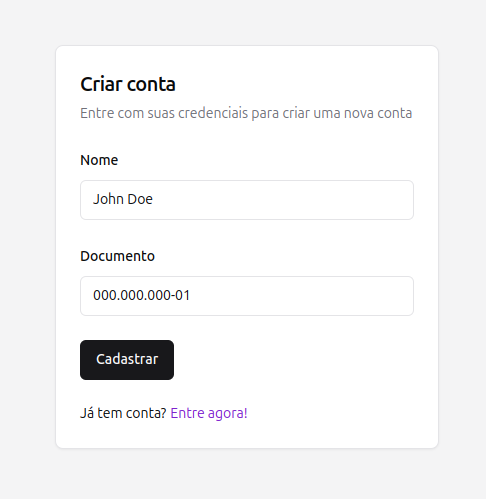
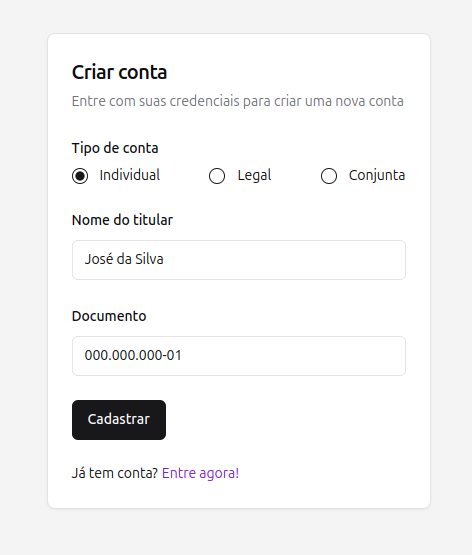
feat: improved create account

diff --git a/client/src/components/signup-form.tsx b/client/src/components/signup-form.tsx
@@ -21,19 +21,51 @@ import {
   FormMessage,
 } from "./ui/form"
 import { Input } from "./ui/input"
+import { RadioGroup, RadioGroupItem } from "./ui/radio-group"
 import { toast } from "./ui/use-toast"
 
-const formSchema = z.object({
-  name: z
-    .string()
-    .min(8, {
-      message: "O nome deve ter no mínimo 6 caracteres",
-    })
-    .max(255, {
-      message: "O nome deve ter no máximo 255 caracteres",
+const formSchema = z
+  .object({
+    type: z.enum(["individual", "legal", "joint"], {
+      required_error: "Selecione um tipo de conta",
     }),
-  document: z.string().min(4).max(16),
-})
+    name: z
+      .string()
+      .min(8, {
+        message: "O nome deve ter no mínimo 6 caracteres",
+      })
+      .max(255, {
+        message: "O nome deve ter no máximo 255 caracteres",
+      }),
+    document: z
+      .string()
+      .min(4, {
+        message: "O documento deve ter no mínimo 4 caracteres",
+      })
+      .max(16, {
+        message: "O documento deve ter no máximo 16 caracteres",
+      }),
+    secondDocument: z
+      .string()
+      .min(4, {
+        message: "O documento deve ter no mínimo 4 caracteres",
+      })
+      .max(16, {
+        message: "O documento deve ter no máximo 16 caracteres",
+      })
+      .optional()
+      .or(z.literal("")),
+  })
+  .refine(
+    (data) => {
+      if (data.type !== "joint") return true
+      return data.secondDocument !== ""
+    },
+    {
+      message: "O documento do segundo titular é obrigatório",
+      path: ["secondDocument"],
+    },
+  )
 
 export function SignUpForm() {
   const router = useRouter()
@@ -41,8 +73,10 @@ export function SignUpForm() {
   const form = useForm<z.infer<typeof formSchema>>({
     resolver: zodResolver(formSchema),
     defaultValues: {
+      type: "individual",
       name: "",
       document: "",
+      secondDocument: "",
     },
   })
 
@@ -50,8 +84,10 @@ export function SignUpForm() {
     try {
       await auth.signUp({
         name: data.name,
-        type: "individual",
-        documents: [data.document],
+        type: data.type,
+        documents: [data.document, data.secondDocument].filter(
+          Boolean,
+        ) as string[],
       })
       router.navigate({
         to: "/dashboard",
@@ -79,10 +115,55 @@ export function SignUpForm() {
           <form onSubmit={form.handleSubmit(onSubmit)} className="space-y-6">
             <FormField
               control={form.control}
+              name="type"
+              render={({ field }) => (
+                <FormItem>
+                  <FormLabel>Tipo de conta</FormLabel>
+                  <FormControl>
+                    <RadioGroup
+                      onValueChange={field.onChange}
+                      defaultValue={field.value}
+                      className="flex justify-between"
+                    >
+                      <FormItem className="flex items-center space-x-3 space-y-0">
+                        <FormControl>
+                          <RadioGroupItem value="individual" />
+                        </FormControl>
+                        <FormLabel className="font-normal">
+                          Individual
+                        </FormLabel>
+                      </FormItem>
+
+                      <FormItem className="flex items-center space-x-3 space-y-0">
+                        <FormControl>
+                          <RadioGroupItem value="legal" />
+                        </FormControl>
+                        <FormLabel className="font-normal">Legal</FormLabel>
+                      </FormItem>
+
+                      <FormItem className="flex items-center space-x-3 space-y-0">
+                        <FormControl>
+                          <RadioGroupItem value="joint" />
+                        </FormControl>
+                        <FormLabel className="font-normal">Conjunta</FormLabel>
+                      </FormItem>
+                    </RadioGroup>
+                  </FormControl>
+                  <FormMessage />
+                </FormItem>
+              )}
+            />
+
+            <FormField
+              control={form.control}
               name="name"
               render={({ field }) => (
                 <FormItem>
-                  <FormLabel>Nome</FormLabel>
+                  <FormLabel>
+                    {form.getValues("type") === "joint"
+                      ? "Nome da conta conjunta"
+                      : "Nome do titular"}
+                  </FormLabel>
                   <FormControl>
                     <Input placeholder="Ex: John Doe" {...field} />
                   </FormControl>
@@ -103,6 +184,21 @@ export function SignUpForm() {
                 </FormItem>
               )}
             />
+            {form.getValues("type") === "joint" && (
+              <FormField
+                control={form.control}
+                name="secondDocument"
+                render={({ field }) => (
+                  <FormItem>
+                    <FormLabel>Documento do segundo titular</FormLabel>
+                    <FormControl>
+                      <Input placeholder="Ex: 123.456.789-99" {...field} />
+                    </FormControl>
+                    <FormMessage />
+                  </FormItem>
+                )}
+              />
+            )}
             <Button type="submit">Cadastrar</Button>
           </form>
         </Form>

diff --git a/client/src/components/ui/radio-group.tsx b/client/src/components/ui/radio-group.tsx
@@ -1,0 +1,42 @@
+import * as React from "react"
+import * as RadioGroupPrimitive from "@radix-ui/react-radio-group"
+import { Circle } from "lucide-react"
+
+import { cn } from "@/lib/utils"
+
+const RadioGroup = React.forwardRef<
+  React.ElementRef<typeof RadioGroupPrimitive.Root>,
+  React.ComponentPropsWithoutRef<typeof RadioGroupPrimitive.Root>
+>(({ className, ...props }, ref) => {
+  return (
+    <RadioGroupPrimitive.Root
+      className={cn("grid gap-2", className)}
+      {...props}
+      ref={ref}
+    />
+  )
+})
+RadioGroup.displayName = RadioGroupPrimitive.Root.displayName
+
+const RadioGroupItem = React.forwardRef<
+  React.ElementRef<typeof RadioGroupPrimitive.Item>,
+  React.ComponentPropsWithoutRef<typeof RadioGroupPrimitive.Item>
+>(({ className, ...props }, ref) => {
+  return (
+    <RadioGroupPrimitive.Item
+      ref={ref}
+      className={cn(
+        "aspect-square h-4 w-4 rounded-full border border-primary text-primary ring-offset-background focus:outline-none focus-visible:ring-2 focus-visible:ring-ring focus-visible:ring-offset-2 disabled:cursor-not-allowed disabled:opacity-50",
+        className
+      )}
+      {...props}
+    >
+      <RadioGroupPrimitive.Indicator className="flex items-center justify-center">
+        <Circle className="h-2.5 w-2.5 fill-current text-current" />
+      </RadioGroupPrimitive.Indicator>
+    </RadioGroupPrimitive.Item>
+  )
+})
+RadioGroupItem.displayName = RadioGroupPrimitive.Item.displayName
+
+export { RadioGroup, RadioGroupItem }

diff --git a/client/src/services/user-service.ts b/client/src/services/user-service.ts
@@ -44,13 +44,10 @@ export async function createAccount(account: CreateAccountUser) {
     body: JSON.stringify(account),
   })
 
-  if (response.status == 409) {
-    throw new Error("Usuário já existe")
+  if (!response.ok) {
+    throw new Error((await response.json()).message)
   }
 
-  if (!response.ok) {
-    throw new Error("Failed to signup user")
-  }
   const res = await response.json()
   return {
     id: res.id,

diff --git a/bank/internal/routes/bank/create-account.go b/bank/internal/routes/bank/create-account.go
@@ -19,21 +19,21 @@ type createAccountBody struct {
 func CreateAccountRoute(c *fiber.Ctx) error {
 	var body createAccountBody
 	if errs := validate.ParseAndValidate(c.Body(), &body); len(errs) > 0 {
-		return c.Status(http.StatusBadRequest).JSON(&fiber.Map{"error": errs})
+		return c.Status(http.StatusBadRequest).JSON(&fiber.Map{"errors": errs})
 	}
 
 	seen := make(map[string]bool)
 	if body.Type == models.AccountTypeJoint {
 		if len(body.Documents) < 2 {
 			return c.Status(http.StatusBadRequest).JSON(&fiber.Map{
-				"error": "Contas conjuntas precisam de pelo menos dois documentos",
+				"message": "Contas conjuntas precisam de pelo menos dois documentos",
 			})
 		}
 
 		for _, doc := range body.Documents {
 			if seen[doc] {
 				return c.Status(http.StatusBadRequest).JSON(&fiber.Map{
-					"error": "Documentos duplicados",
+					"message": "Documentos duplicados",
 				})
 			}
 			seen[doc] = true
@@ -43,25 +43,25 @@ func CreateAccountRoute(c *fiber.Ctx) error {
 			_, exists := storage.Accounts.FindAccountByDocument(doc)
 			if !exists {
 				return c.Status(http.StatusConflict).JSON(&fiber.Map{
-					"error": fmt.Sprintf("O documento %s não está associado a nenhuma conta", doc),
+					"message": fmt.Sprintf("O documento %s não está associado a nenhuma conta", doc),
 				})
 			}
 		}
 
 		account := storage.Accounts.CreateJointAccount(body.Name, body.Documents)
-		return c.Status(http.StatusBadRequest).JSON(&account)
+		return c.Status(http.StatusCreated).JSON(&account)
 	}
 
 	if len(body.Documents) > 1 {
 		return c.Status(http.StatusBadRequest).JSON(&fiber.Map{
-			"error": "Contas individuais e jurídicas não podem ter mais de um documento",
+			"message": "Contas individuais e jurídicas não podem ter mais de um documento",
 		})
 	}
 
 	_, exists := storage.Accounts.FindAccountByDocument(body.Documents[0])
 	if exists {
 		return c.Status(http.StatusConflict).JSON(&fiber.Map{
-			"error": "Conta já existe",
+			"message": "Conta já existe",
 		})
 	}
 

diff --git a/README.md b/README.md
@@ -115,6 +115,13 @@ Para definir o endereço do banco, escreva o endereço do banco no campo de text
 
 Para criar uma nova conta, preencha o formulário com o nome do usuário, os documentos (CPF ou CNPJ) e o tipo da conta (pessoa física, jurídica ou conjunta) e clique no botão "Criar conta". Após criar a conta, você será redirecionado para a página do banco.
 
+<div align="center">
+<img src="./images/create-joint-account.png" alt="Criar uma nova conta conjunta" height="300px" width="auto" /> <br/>
+<em>Figura 2. Criar uma nova conta conjunta</em>
+</div>
+
+Para criar uma conta conjunta, preencha o formulário com o nome da conta e os documentos dos usuários (CPF ou CNPJ) e clique no botão "Criar conta" (ambos os usuários devem ter uma conta individual previamente criada no banco). Após criar a conta, você será redirecionado para a página do banco.
+
 #### Como realizar um depósito
 <div align="center">
 <img src="./images/create-deposit.png" alt="Criar um novo depósito" height="300px" width="auto" /> <br/>
